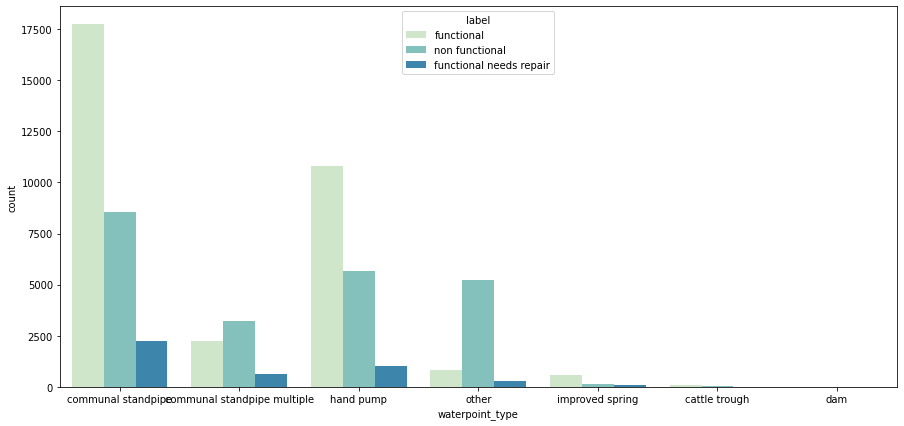
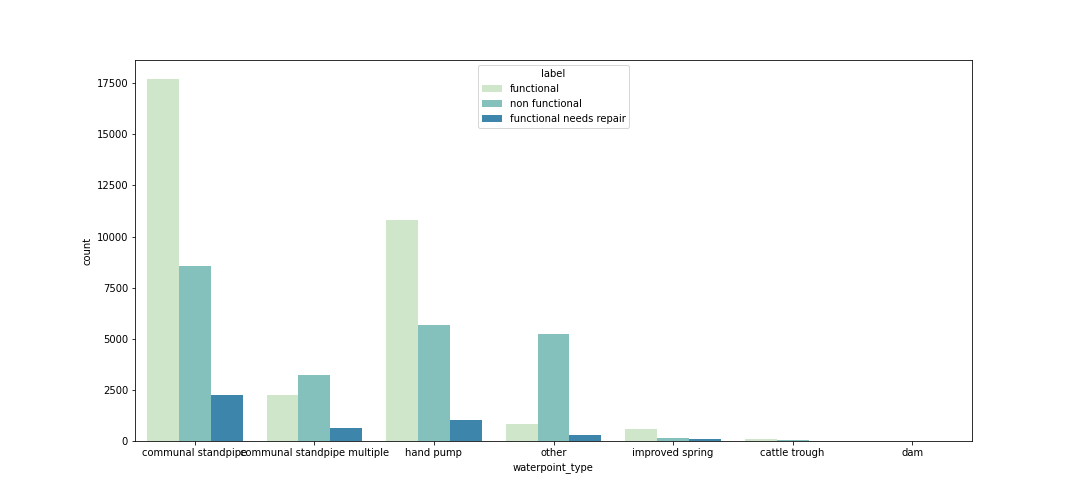
update images

Changed region(s): [[0.0, 0.0, 0.8982, 1.0], [0.9912, 0.0305, 1.0, 0.9155], [0.8982, 0.9155, 0.9292, 0.946]]

diff --git a/README.md b/README.md
@@ -46,49 +46,49 @@ First we will explore each of the attributes in the dataset and figure out  the 
 
 In this section we will visualize correlations with the target variable and other attributes and decide what are the best features. 
 
-![alt text](https://github.com/YogyaGamage/pump-it-up/blob/main/images/image0.jpg?raw=true)
+![alt text](https://github.com/YogyaGamage/pump-it-up/blob/main/images/image0.png)
 
 We can see that there is a difference in communal standpipe and CSPipe multiple. So we will use waterpoint type.
 
-![alt text](https://github.com/YogyaGamage/pump-it-up/blob/main/images/image1.jpg?raw=true)
+![alt text](https://github.com/YogyaGamage/pump-it-up/blob/main/images/image1.png)
 
 Source seems to show a similar pattern in all levels.
 
-![alt text](https://github.com/YogyaGamage/pump-it-up/blob/main/images/image2.jpg?raw=true)
+![alt text](https://github.com/YogyaGamage/pump-it-up/blob/main/images/image2.png)
 
 We will use quantity group as quantity and quantity group are same.
 
-![alt text](https://github.com/YogyaGamage/pump-it-up/blob/main/images/image3.jpg?raw=true)
+![alt text](https://github.com/YogyaGamage/pump-it-up/blob/main/images/image3.png)
 
 We will use "quality group" instead of "water quality" as abandoned type data are rare.
 
-![alt text](https://github.com/YogyaGamage/pump-it-up/blob/main/images/image4.jpg?raw=true)
+![alt text](https://github.com/YogyaGamage/pump-it-up/blob/main/images/image4.png)
 
 We will use payment type.
 
-![alt text](https://github.com/YogyaGamage/pump-it-up/blob/main/images/image5.jpg?raw=true)
+![alt text](https://github.com/YogyaGamage/pump-it-up/blob/main/images/image5.png)
 
 We will use management group as the distribution does not show much difference when grouped or not.
 
-![alt text](https://github.com/YogyaGamage/pump-it-up/blob/main/images/image6.jpg?raw=true)
+![alt text](https://github.com/YogyaGamage/pump-it-up/blob/main/images/image6.png)
 
 We will use extraction type class, because except for afridev other subclasses did not show significant difference with the parent class distribution.
 
-![alt text](https://github.com/YogyaGamage/pump-it-up/blob/main/images/image7.jpg?raw=true)
+![alt text](https://github.com/YogyaGamage/pump-it-up/blob/main/images/image7.png)
 
-![alt text](https://github.com/YogyaGamage/pump-it-up/blob/main/images/image8.jpg?raw=true)
+![alt text](https://github.com/YogyaGamage/pump-it-up/blob/main/images/image8.png)
 
 We can see that permit and public meeting has some relationship with the pump status.
 
-![alt text](https://github.com/YogyaGamage/pump-it-up/blob/main/images/image9.jpg?raw=true)
+![alt text](https://github.com/YogyaGamage/pump-it-up/blob/main/images/image9.png)
 
 Region seems to be the best attribute to use among the other location based attributes.
 
-![alt text](https://github.com/YogyaGamage/pump-it-up/blob/main/images/image10.jpg?raw=true)
+![alt text](https://github.com/YogyaGamage/pump-it-up/blob/main/images/image10.png)
 
 More non functional and need repair pipes appear to be among the older pipes.
 
- ![alt text](https://github.com/YogyaGamage/pump-it-up/blob/main/images/image11.jpg?raw=true)
+ ![alt text](https://github.com/YogyaGamage/pump-it-up/blob/main/images/image11.png)
 
 The GPS coordinates also show a good correlation to the target variable.
 
@@ -158,4 +158,4 @@ The selected feature set was,
 
 The final maximum score was 0.7877.
 
-![alt text](https://github.com/YogyaGamage/pump-it-up/blob/main/images/image12.jpg?raw=true)
+![alt text](https://github.com/YogyaGamage/pump-it-up/blob/main/images/image12.png)
